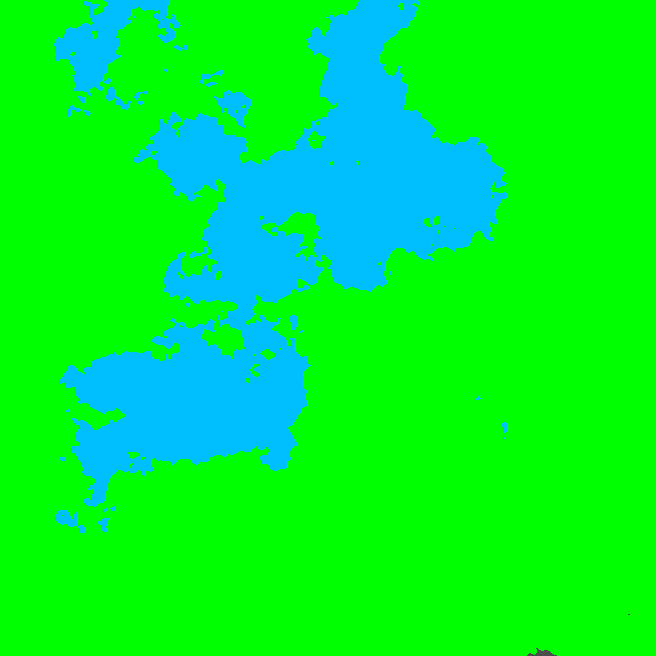
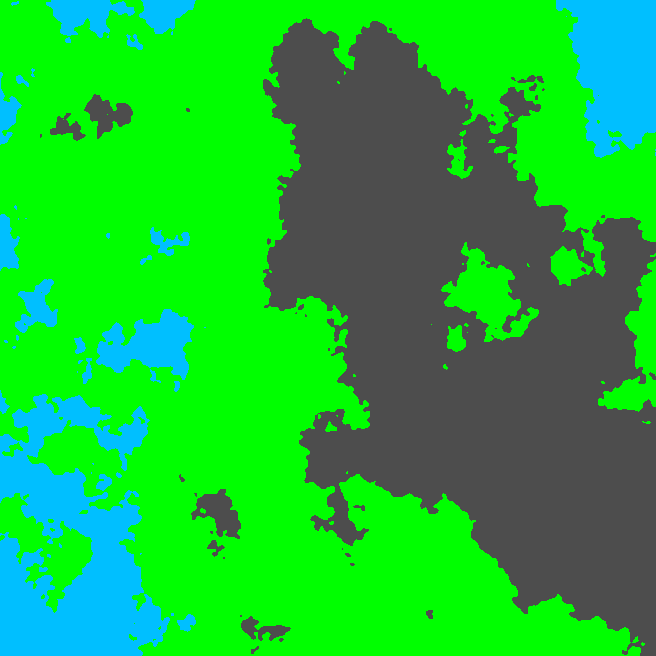
reworked tiledata

diff --git a/Mine-Around/Assets/Scripts/TileData/TileDataAsset.cs b/Mine-Around/Assets/Scripts/TileData/TileDataAsset.cs
@@ -1,21 +1,42 @@
+using System;
 using UnityEngine;
 using UnityEngine.Tilemaps;
-using System;
 
-[CreateAssetMenu(fileName = "TileDataAsset", menuName = "WorldDataObject/TileDataAsset")]
+public enum TilePlacementLayer
+{
+    Ground,
+    Structure,
+    Overlay
+}
+
+[CreateAssetMenu(
+    fileName = "TileDataAsset",
+    menuName = "World Data/Tile"
+)]
 public class TileDataAsset : DatabaseAsset
 {
     public override Type RegistryType => typeof(TileDataAsset);
 
-    [Header("Rendering")]
-    public TileBase tile;
+    [Header("Classification")]
+    [SerializeField] private TilePlacementLayer placementLayer;
 
-    [Header("General Behavior")]
+    [Header("Rendering")]
+    [SerializeField] private TileBase tile;
+    [SerializeField] private Color mapColor = Color.white;
     [SerializeField] private bool isTransparent;
-    [SerializeField] private Color mapColor;
+
+    [Header("Movement and Visibility")]
+    [SerializeField] private bool blocksMovement;
+    [SerializeField] private bool blocksVision;
+
+    public TilePlacementLayer PlacementLayer => placementLayer;
+
+    public TileBase Tile => tile;
+    public Color MapColor => mapColor;
     public bool IsTransparent => isTransparent;
 
-    public Color MapColor => mapColor;
+    public bool BlocksMovement => blocksMovement;
+    public bool BlocksVision => blocksVision;
 
     public virtual void OnPlaced(TileContext context)
     {
@@ -32,5 +53,4 @@ public class TileDataAsset : DatabaseAsset
     public virtual void OnRandomTick(TileContext context)
     {
     }
-
 }

diff --git a/Mine-Around/Assets/Scripts/Chunks/ChunkManager.cs b/Mine-Around/Assets/Scripts/Chunks/ChunkManager.cs
@@ -148,11 +148,11 @@ public class ChunkManager : MonoBehaviour
                 TileDataAsset wall = GameDatabase.GetAssetByID<TileDataAsset>(wallTileID);
                 TileDataAsset floor = GameDatabase.GetAssetByID<TileDataAsset>(floorTileID);
 
-                wallTiles[i] = wall.tile;
+                wallTiles[i] = wall.Tile;
 
                 if (wall.IsTransparent)
                 {
-                    floorTiles[i] = floor.tile;
+                    floorTiles[i] = floor.Tile;
                 }
 
                 positions[i] = (Vector3Int)worldPos;
